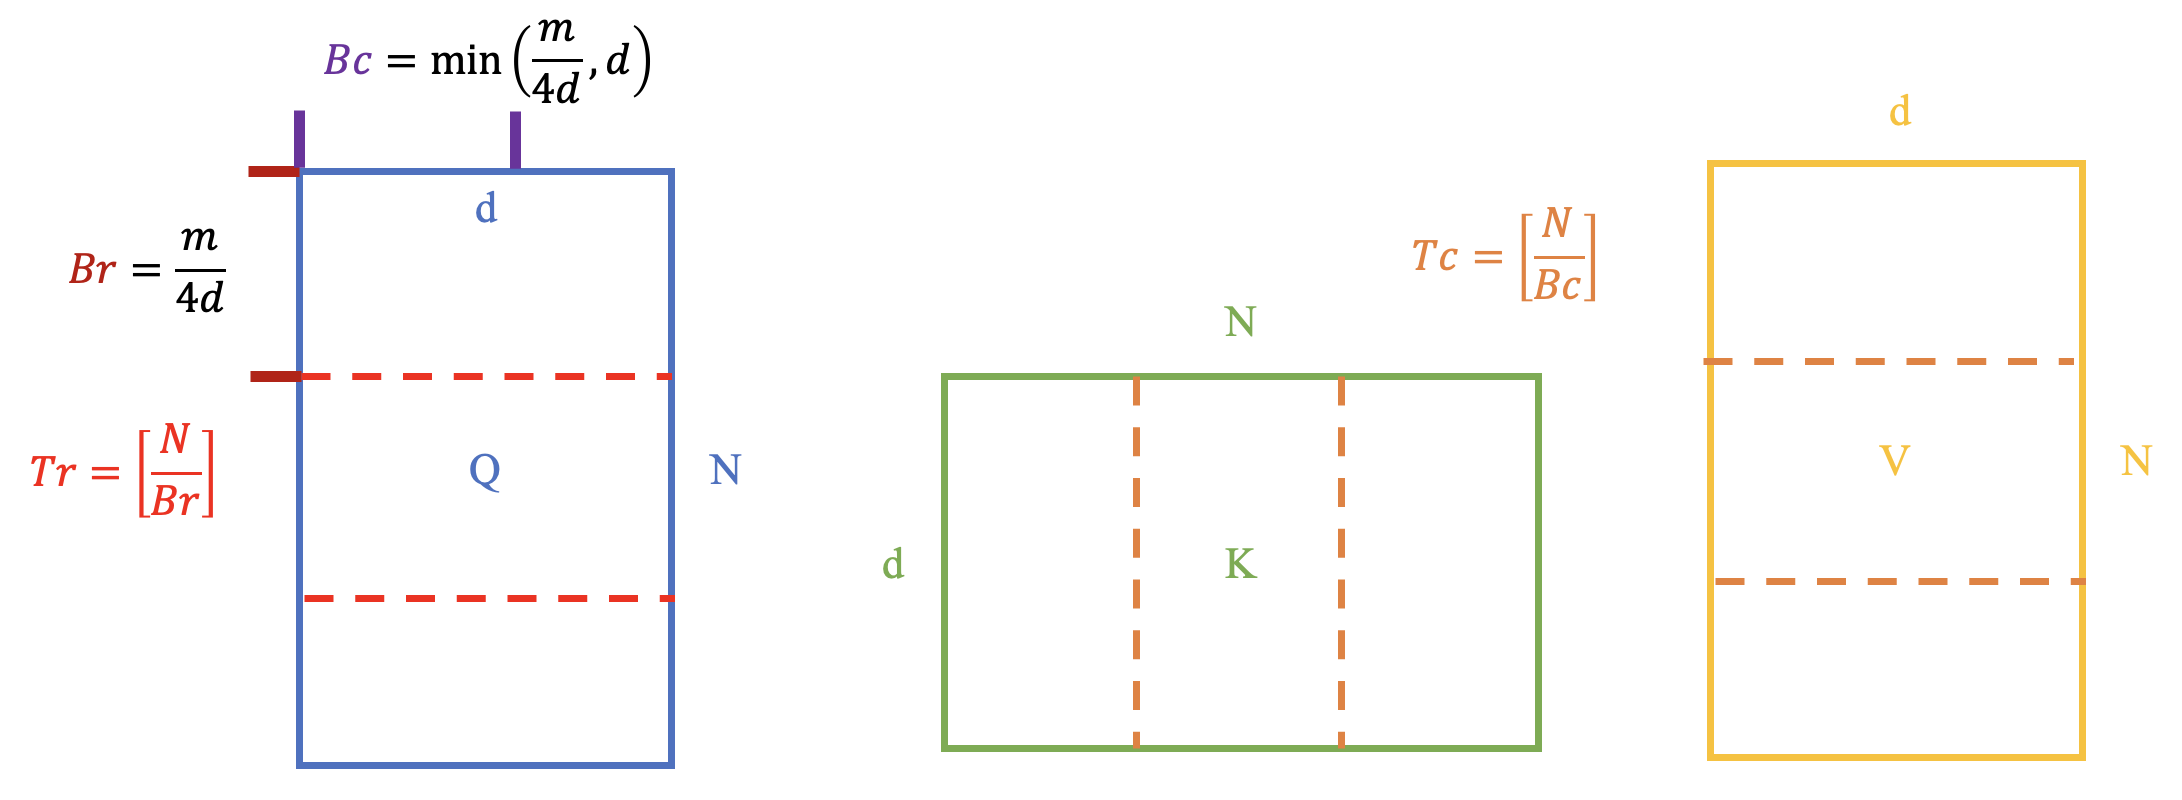
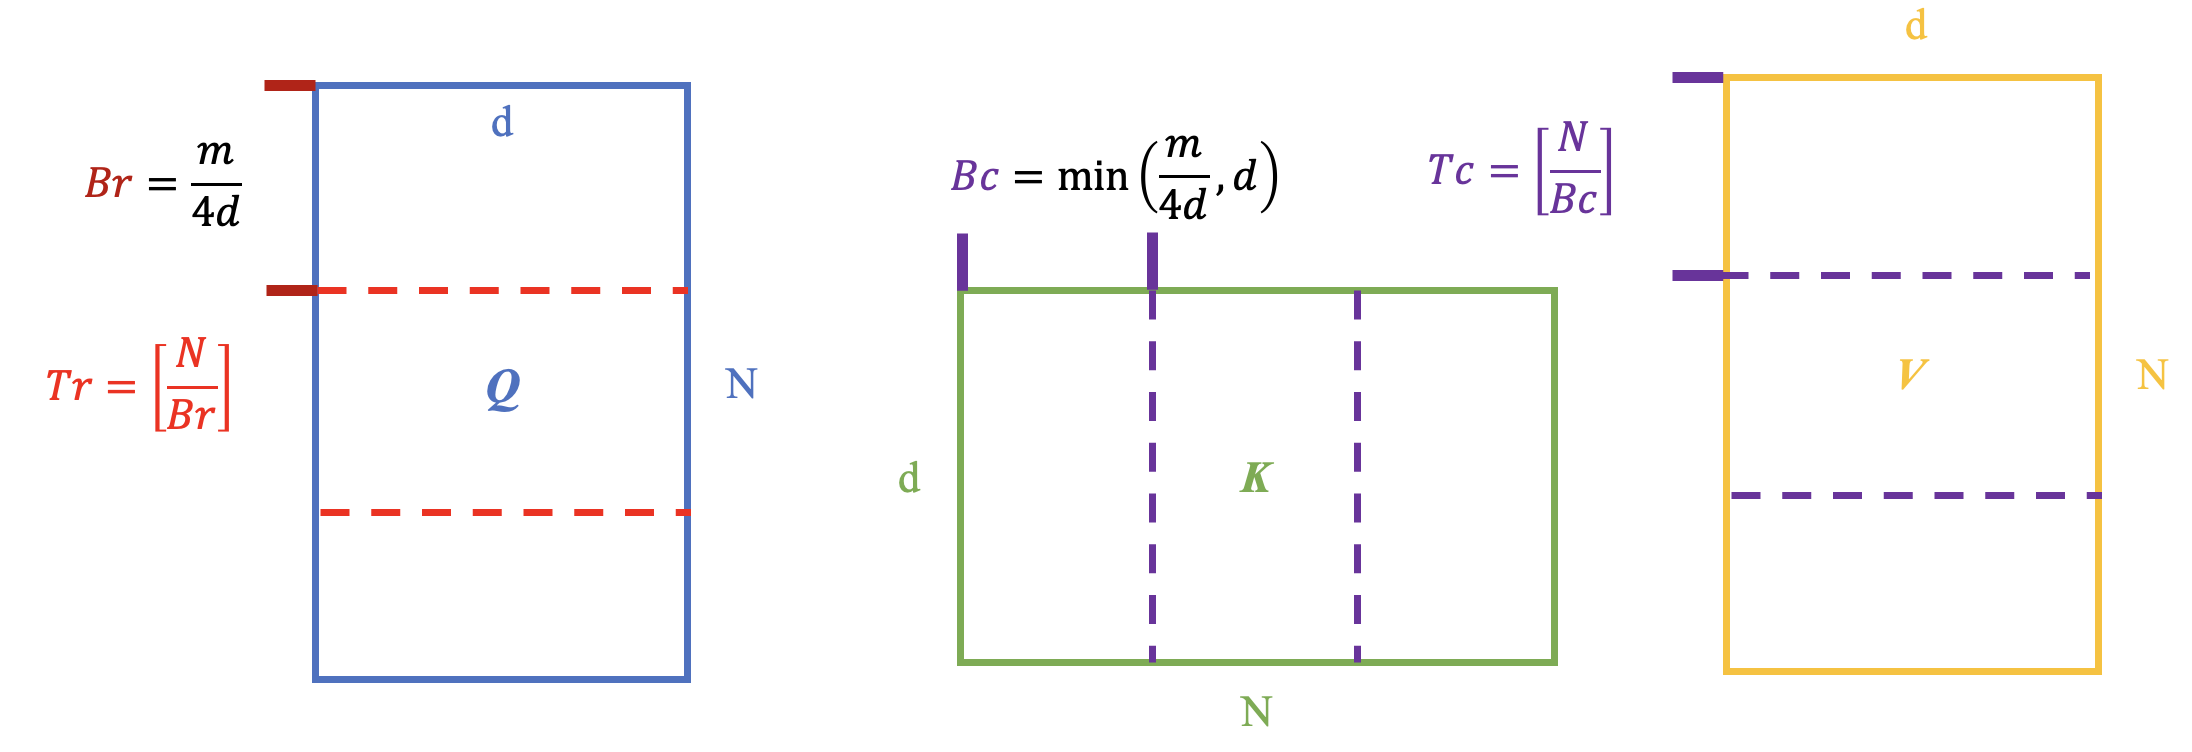
update flashattention

diff --git a/src/zh/posts/cpp.md b/src/zh/posts/cpp.md
@@ -548,6 +548,23 @@ dynamic_cast 的限制：
     std::cout << p1.use_count() << std::endl; // 输出 2
     ```
 
+    **具体讲一下 shared.ptr.自动管理内存的原理引用计数的具体原理**
+    
+    **shared.ptr 引用计数什么时候会增加，什么时候会减少?**
+
+    引用计数的核心原理:
+    在 shared.ptr 的内部维护了一个计数器，来跟踪有多少个 shared.ptr 对象指向了某一个资源。当计数器的值减少到0的时候，shared.ptr.就会调用 delete(或者用户自定义的方法)来释放资源。
+
+    引用计数器何时增加:
+    1. 新建一个 shared.ptr 并指向了一个资源时。
+    2. 复制构造函数创建一个新的 shared.ptr.时。
+    3. 用复制运算符将一个 shared ptr 给另一个 shared ptr 对象赋值时。
+    
+    引用计数器何时减少:
+    1. 当一个 shared.ptr对象被销毁时，比如局部变量离开作用域，或者类成员变量析构时。
+    2. 当一个 shared.ptr对象不再指向一个资源时，例如通过 reset 方法或者赋值运算符指向另一个资源时。
+
+
     (3) weak_ptr：是对 shared_ptr 管理对象的**弱引用** ；不影响引用计数；**不能直接访问对象，必须通过 lock() 转换为 shared_ptr**；
     
     主要用于打破**循环引用**（在使用 std::shared_ptr 时，如果两个对象互相持有对方的 shared_ptr，就会形成循环引用（cyclic reference） 。这种情况下，它们的引用计数永远不会变为 0，即使这两个对象已经不再被外界使用，也无法释放！） ；
@@ -680,11 +697,294 @@ dynamic_cast 的限制：
 
 
 
-
-
-
-
 ## 三. C++面向对象编程
+
+### 1.面向对象的三大特性
+
+**🔐 C++ 封装（Encapsulation）**
+
+它将数据（成员变量）和操作数据的方法（成员函数）包装在一个类中，隐藏内部实现细节，仅对外提供访问接口。
+**提高了程序的安全性、可维护性、模块化程度 。**
+
+它的核心思想为三点：
+
+- 数据隐藏（Data Hiding）：使用 **private（只能在类内访问）** 或 **protected（可以在类内和子类访问）** 关键字限制外部直接访问类的成员变量。
+- 接口暴露（Interface Exposure）：使用 **public（可以被外部访问）** 关键字定义类的接口，提供访问权限。
+- 统一访问控制：所有对数据的操作都必须通过公开的方法进行，便于调试、日志记录、验证等。
+
+```cpp
+class Student {
+private:
+    std::string name;
+    int age;
+
+public:
+    // 设置姓名
+    void setName(const std::string& n) {
+        name = n;
+    }
+
+    // 设置年龄并做合法性检查
+    void setAge(int a) {
+    }
+
+    // 打印信息
+    void printInfo() const {
+    }
+};
+
+int main() {
+    Student s;
+    s.setName("Tom");
+    s.setAge(20);
+
+    s.printInfo();
+
+    // 下面这行无法编译，因为 name 和 age 是 private 成员
+    // s.age = -100;
+
+    return 0;
+}
+```
+
+**📚 C++ 继承（Inheritance）**
+
+它允许一个类（派生类 / 子类）继承另一个类（基类 / 父类）的属性和方法，实现代码复用和层次化设计。
+是实现“is-a”关系的重要机制（例如：Dog is an Animal）。
+
+```cpp
+class Animal {
+    public:
+        void eat() {
+            std::cout << "Animal is eating" << std::endl;
+        }
+    };
+
+class Dog : public Animal { // 继承了 Animal 类
+    public:
+        void bark() {
+            std::cout << "Dog is barking" << std::endl;
+        }
+    };
+
+int main() {
+    Dog d;
+    d.eat(); // 调用 继承自 Animal 类的 eat 方法
+    d.bark(); // 调用 Dog 类的 bark 方法
+    return 0;
+}
+```
+1. **分类：**
+    - 单继承：一个子类只有一个父类；
+    - 多继承：一个子类有多个父类（C++11 支持多继承）；
+        ```cpp
+        class A {
+        public:
+            void foo() { cout << "A::foo" << endl; }
+        };
+
+        class B {
+        public:
+            void bar() { cout << "B::bar" << endl; }
+        };
+
+        class C : public A, public B {}; //C 同时继承了 A 和 B 类(多继承)
+
+        int main() {
+            C c;
+            c.foo();  // 可以调用 A 的方法
+            c.bar();  // 可以调用 B 的方法
+            return 0;
+        }
+        ```
+    - 多级继承：一个子类有多个父类，每个父类又有父类；
+    - 菱形继承：一个子类有两个父类，其中一个父类有另一个父类；
+    ![](Figure/cpp/lingxing.png)
+
+2. **多重继承问题：**
+多重继承可能引入一些问题，如**菱形继承问题**，比如当一个类同时继承了两个拥有相同基类的类，而最终的派生类又同时继承了这两个类时，可能导致二义性和代码设计上的复杂性。为了解决这些问题，C++提供了**虚继承**，通过在继承声明中使用virtual关键字，可以避免在派生类中生成多个基类的实例，从而解决了菱形继承带来的二义性。
+
+    ```cpp
+    class A {
+    public:
+        int value;
+    };
+
+    class B : virtual public A {};
+    class C : virtual public A {};
+    class D : public B, public C {};
+
+    int main() {
+        D d;
+        d.value = 10;  // 正确：只有一份 value
+        return 0;
+    }
+    ```
+
+3. **继承中的构造函数与析构函数调用顺序**
+
+    - 构造函数：先调用基类构造函数，再调用成员对象构造函数（如果有），最后调用派生类构造函数；
+    - 析构函数：先调用派生类析构函数，再调用成员对象析构函数（如果有），最后调用基类析构函数；（和上面刚好相反）
+
+4. **继承中的成员访问权限（重要）**
+
+    子类不能访问父类的 private 成员，但可以访问父类的 protected 成员。
+
+    ![](Figure/cpp/jichengquanxian.png)
+
+
+**🌈 C++ 多态（Polymorphism）**
+
+多态是**指“一个接口，多种实现”，即：同一个接口在不同对象上有不同的行为**
+
+1. **多态分类：**
+面向对象中常说的“多态”一般指 **运行时多态** 。
+
+    - 编译时多态（静态绑定）：在编译阶段确定调用哪个函数。**实现方法：函数重载、运算符重载**
+    - 运行时多态（动态绑定）：在运行阶段确定调用哪个函数。**实现方法：虚函数+继承**
+
+2. **多态的核心机制：**
+
+    - 虚函数：使用 virtual 关键字声明，在基类中定义虚函数，派生类可以重写（override）它。
+允许通过基类指针或引用访问派生类的实现。
+    - 虚函数表：每个有虚函数的类都有一个虚函数表。
+对象内部有一个指向该表的指针（vptr），用于运行时查找正确的函数地址。
+    - 动态绑定：程序在运行时根据对象的实际类型决定调用哪个虚函数。
+
+3. **多态使用示例：**
+
+    ```cpp
+    class Animal {
+    public:
+        //1.基类声明虚函数：在基类中声明虚函数，使用 virtua1 关键字，以便派生类可以重写（override）这些函数。
+        virtual void speak() const { //virtual 声明虚函数，开启多态机制
+            cout << "Animal speaks" << endl;
+        }
+    };
+
+    class Dog : public Animal {
+    public:
+        //2. 派生类重写虚函数：在派生类中重写基类中声明的虚函数，使用 override 关键字
+        void speak() const override { // override 显式覆盖父类虚函数，增强可读性与安全性
+            cout << "Woof!" << endl;
+        }
+    };
+
+    class Cat : public Animal {
+    public:
+        void speak() const override {
+            cout << "Meow!" << endl;
+        }
+    };
+    ```
+    使用：
+
+    ```cpp
+    //3. 使用基类类型的指针或引用指向派生类对象。
+    Animal* ptr = new Dog();
+    //4. 调用虚函数：通过基类指针或引用调用虚函数。在运行时，系统会根据对象的实际类型来选择调用正确的函数实现多态。
+    ptr->speak();  // 输出 "Woof!"
+    delete ptr;
+    ptr = new Cat();
+    ptr->speak();  // 输出 "Meow!"
+    delete ptr;
+    //5. 虚函数表：编译器在对象的内存布局中维护了一个虚函数表，其中存储了指向实际函数的指针。这个表在运行时用于动态查找调用的函数。
+    ```
+
+### 2. 重载(overload)和重写(override)的区别
+**重写与重载的本质区别是，加入了override的修饰符的方法，此方法始终只有一个被你使用的方法。**
+
+**重载（Overload）**
+
+在**同一个类或作用域中定义多个同名函数**，参数列表不同（个数、类型、顺序），返回值类型不能作为重载依据，可用于普通函数、成员函数、运算符。
+
+规则：
+
+- 不能通过访问权限、返回类型、抛出的异常进行重载；
+- 不同的参数类型可以是不同的参数类型，不同的参数个数，不同的参数顺序（参数类型必须不一样）；
+- 方法的异常类型和数目不会对重载造成影响；
+
+
+✅ 构成重载的示例：
+```cpp
+void func(int a);
+void func(double a);         // 参数类型不同 → 重载
+void func(int a, int b);     // 参数个数不同 → 重载
+void func(const int& a);     // 参数类型相同但引用（原函数是传值，这个是常量引用，注意多了一个&）不同 → 重载 
+```
+
+❌ 不构成重载的示例：
+```cpp
+int func(int a);
+double func(int a);          // 仅返回值不同 → 不合法，无法重载
+int func(const int a);       // 重复定义（原函数是传值，这个依旧是传值），不构成重载
+```
+
+**重写（Override）**
+
+**子类重新定义父类中的虚函数（virtual）**，函数签名必须一致（返回值、函数名、参数列表），实现运行时多态（动态绑定）。
+
+规则：
+- 函数签名必须一致（返回值、函数名、参数列表）；
+- 必须使用 override 关键字，显式覆盖父类虚函数，增强可读性与安全性；
+- 必须使用 virtual 关键字，开启多态机制；
+- 静态方法不能被重写为非静态的方法；
+- 重写方法的访问修饰符一定要大于被重写方法的访问修饰符（public>protected>default>private）；
+
+
+✅ 构成重写的示例：
+```cpp
+class Base {
+public:
+    virtual void foo() {}
+};
+
+class Derived : public Base {
+public:
+    void foo() override {}   // 签名完全一致 → 重写
+};
+```
+
+❌ 不构成重写的示例：
+```cpp
+class Base {
+public:
+    void bar() {}             // 非虚函数
+};
+
+class Derived : public Base {
+public:
+    void bar() {}             // 不是虚函数 → 不构成重写，只是隐藏
+};
+```
+
+### 3. 成员函数/成员变量/静态成员函数/静态成员变量的区别
+![](Figure/cpp/jingtaichengyuan.png)
+1. **成员函数**
+- 成员函数可以分为普通成员函数和静态成员函数。
+- 普通成员函数使用对象调用，可以访问对象的成员变量。
+- 普通成员函数的声明和定义通常在类的内部，但定义时需要使用类名作为限定符。
+2. **成员变量**
+- 每个对象拥有一份成员变量的副本，它们在对象创建时分配，并在对象销毁时释放。
+- 成员变量的访问权限可以是 public、private 或 protected。
+3. **静态成员函数**
+- 静态成员函数**属于类而不是对象，因此可以直接通过类名调用，而不需要创建类的实例**。
+- 静态成员函数不能直接访问普通成员变量，因为它们没有隐含的 this 指针。
+- 静态成员函数的声明和定义也通常在类的内部，但在定义时需要使用类名作为限定符。
+4. **静态成员变量**
+- 静态成员变量是**属于类而不是对象的变量，它们在所有对象之间共享**。
+- 静态成员变量通常在类的声明中进行声明，但在类的定义外进行定义和初始化。
+- 静态成员变量可以通过类名或对象访问。
+
+### 4. 构造函数和析构函数
+
+
+
+
+
+
+
+
 
 ## 四. C++的STL
 

diff --git a/src/zh/posts/flashattention.md b/src/zh/posts/flashattention.md
@@ -85,7 +85,7 @@ Flashattention总体的算法流程图如下：
 2. 我们把结果矩阵O初始化为零，后面会逐步把中间结果累加进去，所以零是合适的初始值。类似的是l(注意：对于每一行来说，它是一个标量，用于累加指数和，由于输出有N行，所以这里的l是长度为N的向量)。m用于记录每一行当前最大的值，所以也是长度为N，而-inf是求max的合适初始值。
 ![](Figure/flashattention/step2.png)
 ---
-3. 设置块的行大小$B_r = \frac{M}{4d}$，块的列大小为$B_c = \min\left(\frac{M}{4d}, d\right)$。$\min$函数的目的是防止块大小$B_r \times B_c > M/4$，这样就无法把4个这样的块放到SRAM里，后面我们会看到为什么是$4 \times B_r \times B_c$的块。
+3. 按照1中块的大小,对Q矩阵按照$B_r$切分成$𝐵𝑟×𝑑$的块，共$T_r$个，对K、V矩阵按照$B_c$切分成$𝐵c×𝑑$的块，共$T_c$个。
 ![](Figure/flashattention/step3.png)
 ---
 4. 根据前面的计算，结果矩阵$O$需要切分成$𝐵𝑟×𝑑$的块来存放中间结果。长度为$N$的$l$和$m$也要切分成$𝐵𝑟$个元素的块，用于存放这些行当前的指数累加值和当前最大值。
